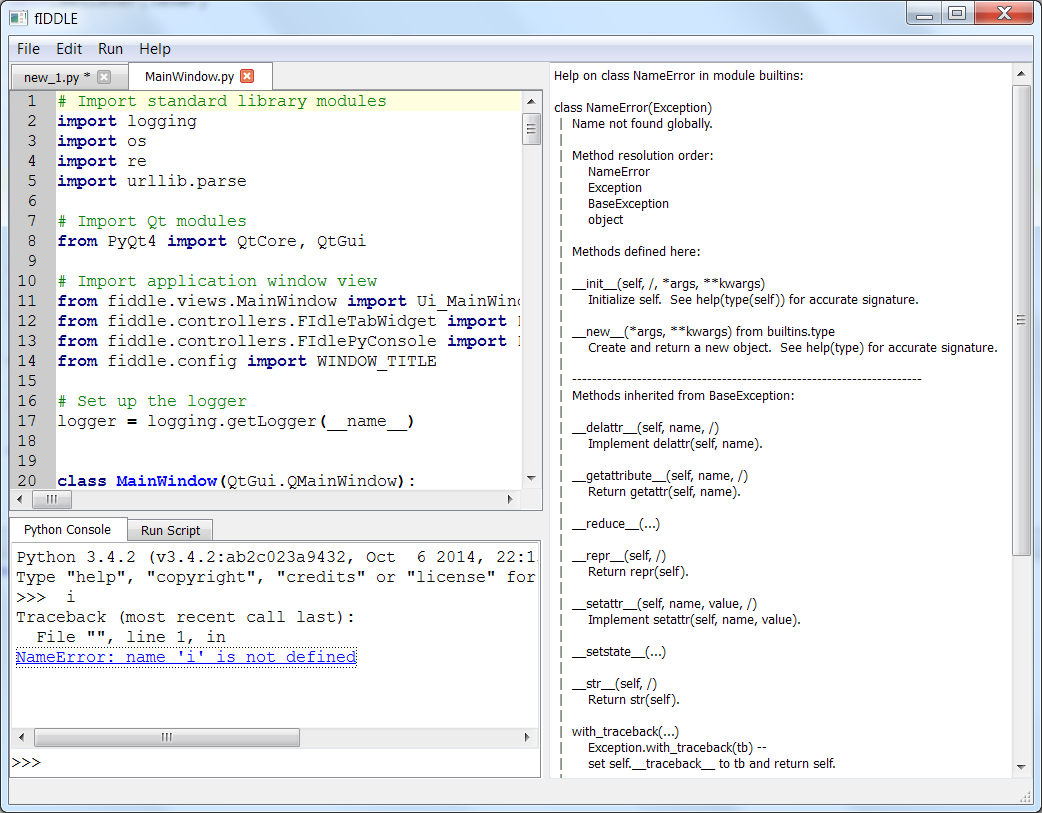
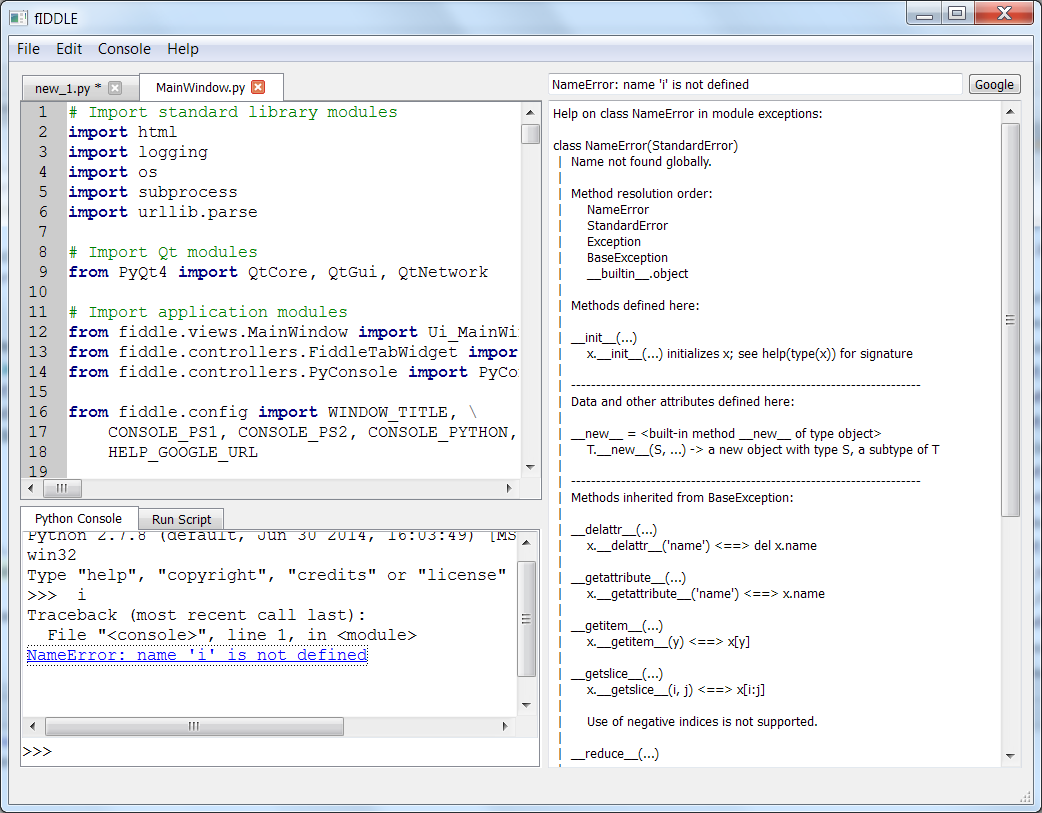
Added Google search

diff --git a/fiddle/views/MainWindow.py b/fiddle/views/MainWindow.py
@@ -2,7 +2,7 @@
 
 # Form implementation generated from reading ui file 'MainWindow.ui'
 #
-# Created: Tue Dec  2 10:57:54 2014
+# Created: Mon Dec  8 16:46:20 2014
 #      by: PyQt4 UI code generator 4.11.3
 #
 # WARNING! All changes made in this file will be lost!
@@ -29,13 +29,12 @@ class Ui_MainWindow(object):
         MainWindow.resize(1024, 768)
         self.centralwidget = QtGui.QWidget(MainWindow)
         self.centralwidget.setObjectName(_fromUtf8("centralwidget"))
-        self.verticalLayout_3 = QtGui.QVBoxLayout(self.centralwidget)
-        self.verticalLayout_3.setMargin(0)
-        self.verticalLayout_3.setObjectName(_fromUtf8("verticalLayout_3"))
-        self.editorHelp_splitter = QtGui.QSplitter(self.centralwidget)
-        self.editorHelp_splitter.setOrientation(QtCore.Qt.Horizontal)
-        self.editorHelp_splitter.setObjectName(_fromUtf8("editorHelp_splitter"))
-        self.editorConsole_splitter = QtGui.QSplitter(self.editorHelp_splitter)
+        self.verticalLayout_5 = QtGui.QVBoxLayout(self.centralwidget)
+        self.verticalLayout_5.setObjectName(_fromUtf8("verticalLayout_5"))
+        self.splitter = QtGui.QSplitter(self.centralwidget)
+        self.splitter.setOrientation(QtCore.Qt.Horizontal)
+        self.splitter.setObjectName(_fromUtf8("splitter"))
+        self.editorConsole_splitter = QtGui.QSplitter(self.splitter)
         self.editorConsole_splitter.setOrientation(QtCore.Qt.Vertical)
         self.editorConsole_splitter.setObjectName(_fromUtf8("editorConsole_splitter"))
         self.documents_tabWidget = QtGui.QTabWidget(self.editorConsole_splitter)
@@ -121,16 +120,36 @@ class Ui_MainWindow(object):
         self.runScript_output.setObjectName(_fromUtf8("runScript_output"))
         self.verticalLayout_4.addWidget(self.runScript_output)
         self.tabWidget.addTab(self.tab_2, _fromUtf8(""))
-        self.helpPane = QtGui.QTextEdit(self.editorHelp_splitter)
+        self.helpPane = QtGui.QWidget(self.splitter)
+        self.helpPane.setObjectName(_fromUtf8("helpPane"))
+        self.verticalLayout_3 = QtGui.QVBoxLayout(self.helpPane)
+        self.verticalLayout_3.setSpacing(0)
+        self.verticalLayout_3.setMargin(0)
+        self.verticalLayout_3.setObjectName(_fromUtf8("verticalLayout_3"))
+        self.helpLayout = QtGui.QVBoxLayout()
+        self.helpLayout.setSpacing(5)
+        self.helpLayout.setObjectName(_fromUtf8("helpLayout"))
+        self.horizontalLayout_2 = QtGui.QHBoxLayout()
+        self.horizontalLayout_2.setObjectName(_fromUtf8("horizontalLayout_2"))
+        self.helpSearch = QtGui.QLineEdit(self.helpPane)
+        self.helpSearch.setObjectName(_fromUtf8("helpSearch"))
+        self.horizontalLayout_2.addWidget(self.helpSearch)
+        self.googleButton = QtGui.QToolButton(self.helpPane)
+        self.googleButton.setObjectName(_fromUtf8("googleButton"))
+        self.horizontalLayout_2.addWidget(self.googleButton)
+        self.helpLayout.addLayout(self.horizontalLayout_2)
+        self.helpBrowser = QtGui.QTextEdit(self.helpPane)
         sizePolicy = QtGui.QSizePolicy(QtGui.QSizePolicy.MinimumExpanding, QtGui.QSizePolicy.Expanding)
         sizePolicy.setHorizontalStretch(0)
         sizePolicy.setVerticalStretch(0)
-        sizePolicy.setHeightForWidth(self.helpPane.sizePolicy().hasHeightForWidth())
-        self.helpPane.setSizePolicy(sizePolicy)
-        self.helpPane.setReadOnly(True)
-        self.helpPane.setTextInteractionFlags(QtCore.Qt.TextBrowserInteraction)
-        self.helpPane.setObjectName(_fromUtf8("helpPane"))
-        self.verticalLayout_3.addWidget(self.editorHelp_splitter)
+        sizePolicy.setHeightForWidth(self.helpBrowser.sizePolicy().hasHeightForWidth())
+        self.helpBrowser.setSizePolicy(sizePolicy)
+        self.helpBrowser.setReadOnly(True)
+        self.helpBrowser.setTextInteractionFlags(QtCore.Qt.TextBrowserInteraction)
+        self.helpBrowser.setObjectName(_fromUtf8("helpBrowser"))
+        self.helpLayout.addWidget(self.helpBrowser)
+        self.verticalLayout_3.addLayout(self.helpLayout)
+        self.verticalLayout_5.addWidget(self.splitter)
         MainWindow.setCentralWidget(self.centralwidget)
         self.menubar = QtGui.QMenuBar(MainWindow)
         self.menubar.setGeometry(QtCore.QRect(0, 0, 1024, 26))
@@ -187,6 +206,12 @@ class Ui_MainWindow(object):
         self.actionAbout_fIDEL.setObjectName(_fromUtf8("actionAbout_fIDEL"))
         self.actionRun_Current_Script = QtGui.QAction(MainWindow)
         self.actionRun_Current_Script.setObjectName(_fromUtf8("actionRun_Current_Script"))
+        self.actionConfigure = QtGui.QAction(MainWindow)
+        self.actionConfigure.setObjectName(_fromUtf8("actionConfigure"))
+        self.actionShow_Help_Pane = QtGui.QAction(MainWindow)
+        self.actionShow_Help_Pane.setObjectName(_fromUtf8("actionShow_Help_Pane"))
+        self.actionHide_Help_Pane = QtGui.QAction(MainWindow)
+        self.actionHide_Help_Pane.setObjectName(_fromUtf8("actionHide_Help_Pane"))
         self.menuFile.addAction(self.actionNew)
         self.menuFile.addAction(self.actionOpen)
         self.menuFile.addAction(self.actionOpen_Recent)
@@ -206,6 +231,11 @@ class Ui_MainWindow(object):
         self.menuEdit.addAction(self.actionFind_and_Replace)
         self.menuShell.addAction(self.actionRun_Current_Script)
         self.menuShell.addAction(self.actionRestart)
+        self.menuShell.addSeparator()
+        self.menuShell.addAction(self.actionConfigure)
+        self.menuHelp.addAction(self.actionShow_Help_Pane)
+        self.menuHelp.addAction(self.actionHide_Help_Pane)
+        self.menuHelp.addSeparator()
         self.menuHelp.addAction(self.actionFIDLE_Help)
         self.menuHelp.addAction(self.actionPython_Help)
         self.menuHelp.addSeparator()
@@ -220,6 +250,7 @@ class Ui_MainWindow(object):
         self.tabWidget.setCurrentIndex(0)
         QtCore.QObject.connect(self.documents_tabWidget, QtCore.SIGNAL(_fromUtf8("tabCloseRequested(int)")), MainWindow.close_tab)
         QtCore.QObject.connect(self.documents_tabWidget, QtCore.SIGNAL(_fromUtf8("currentChanged(int)")), MainWindow.handle_tab_change)
+        QtCore.QObject.connect(self.googleButton, QtCore.SIGNAL(_fromUtf8("clicked()")), MainWindow.run_web_search)
         QtCore.QMetaObject.connectSlotsByName(MainWindow)
 
     def retranslateUi(self, MainWindow):
@@ -229,9 +260,10 @@ class Ui_MainWindow(object):
         self.label.setText(_translate("MainWindow", "Run Command", None))
         self.runScript_button.setText(_translate("MainWindow", "Run", None))
         self.tabWidget.setTabText(self.tabWidget.indexOf(self.tab_2), _translate("MainWindow", "Run Script", None))
+        self.googleButton.setText(_translate("MainWindow", "Google", None))
         self.menuFile.setTitle(_translate("MainWindow", "File", None))
         self.menuEdit.setTitle(_translate("MainWindow", "Edit", None))
-        self.menuShell.setTitle(_translate("MainWindow", "Run", None))
+        self.menuShell.setTitle(_translate("MainWindow", "Console", None))
         self.menuHelp.setTitle(_translate("MainWindow", "Help", None))
         self.actionNew.setText(_translate("MainWindow", "New", None))
         self.actionNew.setShortcut(_translate("MainWindow", "Ctrl+N", None))
@@ -264,4 +296,7 @@ class Ui_MainWindow(object):
         self.actionAbout_fIDEL.setText(_translate("MainWindow", "About fIDLE", None))
         self.actionRun_Current_Script.setText(_translate("MainWindow", "Run Current Script", None))
         self.actionRun_Current_Script.setShortcut(_translate("MainWindow", "F5", None))
+        self.actionConfigure.setText(_translate("MainWindow", "Configure", None))
+        self.actionShow_Help_Pane.setText(_translate("MainWindow", "Show Help Pane", None))
+        self.actionHide_Help_Pane.setText(_translate("MainWindow", "Hide Help Pane", None))
 

diff --git a/fiddle/controllers/MainWindow.py b/fiddle/controllers/MainWindow.py
@@ -12,7 +12,10 @@ from PyQt4 import QtCore, QtGui, QtNetwork
 from fiddle.views.MainWindow import Ui_MainWindow
 from fiddle.controllers.FiddleTabWidget import FIdleTabWidget
 from fiddle.controllers.PyConsole import PyConsoleServer, PyConsoleClient, PyConsoleLineEdit
-from fiddle.config import WINDOW_TITLE, CONSOLE_PS1, CONSOLE_PS2, CONSOLE_PYTHON
+
+from fiddle.config import WINDOW_TITLE, \
+    CONSOLE_PS1, CONSOLE_PS2, CONSOLE_PYTHON, \
+    HELP_GOOGLE_URL
 
 # Set up the logger
 logger = logging.getLogger(__name__)
@@ -75,6 +78,10 @@ class MainWindow(QtGui.QMainWindow):
 
         # Edit actions
         # TODO
+
+        # Help actions
+        self.ui.actionShow_Help_Pane.triggered.connect(lambda x: self.ui.helpPane.show())
+        self.ui.actionHide_Help_Pane.triggered.connect(lambda x: self.ui.helpPane.hide())
 
     def init_open_recent(self):
         pass
@@ -204,6 +211,7 @@ class MainWindow(QtGui.QMainWindow):
 
     def load_anchor(self, url):
         scheme = url.scheme()
+        ret = False
         if scheme == 'help':
             query = dict(url.queryItems())  # queryItems returns list of tuples
             cmd = 'help({})'.format(query['object'])
@@ -211,8 +219,28 @@ class MainWindow(QtGui.QMainWindow):
             proc = subprocess.Popen(args, stdout=subprocess.PIPE, shell=False)
             out, err = proc.communicate()
             if err is None:
-                self.ui.helpPane.setPlainText(out.decode('utf8'))
+                self.ui.helpSearch.setText(urllib.parse.unquote_plus(query['text']))
+                self.ui.helpBrowser.setPlainText(out.decode('utf8'))
                 self.ui.helpPane.show()
+                ret = True
+        elif scheme == 'http' or scheme == 'https':
+            ret = QtGui.QDesktopServices.openUrl(url)
+
+        if not ret:
+            message_box = QtGui.QMessageBox()
+            message_box.setText("Cannot open link.")
+            message_box.setInformativeText('The link at {0} cannot be opened.'.format(url.path()))
+            ok_btn = message_box.addButton(QtGui.QMessageBox.Ok)
+            message_box.setDefaultButton(ok_btn)
+
+            message_box.exec_()
+
+    def run_web_search(self):
+        query = self.ui.helpSearch.text()
+        url = HELP_GOOGLE_URL.format(query=urllib.parse.quote_plus(query))
+        qurl = QtCore.QUrl(url)
+        ret = QtGui.QDesktopServices.openUrl(qurl)
+
 
     def _get_current_tab(self):
         idx = self.ui.documents_tabWidget.currentIndex()

diff --git a/fiddle/__main__.py b/fiddle/__main__.py
@@ -17,6 +17,27 @@ logging.basicConfig(filename='fIDDLE.log',
                     level=LOG_LEVEL)
 
 
+class DumpStream():
+    """
+    A simple stream to dump all console I/O
+    from: http://sebsauvage.net/python/snyppets/#py2exe
+    """
+    def __init__(self):
+        pass
+
+    def write(self, data):
+        pass
+
+    def read(self, data):
+        pass
+
+    def flush(self):
+        pass
+
+    def close(self):
+        pass
+
+
 class App(QtGui.QApplication):
     def __init__(self, *args):
         QtGui.QApplication.__init__(self, *args)
@@ -32,8 +53,21 @@ class App(QtGui.QApplication):
         self.exit(0)
 
 
+def set_dump_streams():
+    sys.stdout = DumpStream()
+    sys.stderr = DumpStream()
+    sys.stdin = DumpStream()
+    sys.__stdout__ = DumpStream()
+    sys.__stderr__ = DumpStream()
+    sys.__stdin__ = DumpStream()
+
+
 def main():
     global app
+
+    if LOG_LEVEL != logging.DEBUG:
+        set_dump_streams()
+
     app = App(sys.argv)
     app.exec_()
 

diff --git a/fiddle/config.py b/fiddle/config.py
@@ -25,10 +25,12 @@ def find_python_exe():
 
 # app directory, determine if application is a script file or frozen exe
 # see: http://stackoverflow.com/questions/404744/determining-application-path-in-a-python-exe-generated-by-pyinstaller
+# also up the logging level to INFO for frozen app
+APP_DIR = os.path.dirname(__file__)
 if getattr(sys, 'frozen', False):
     APP_DIR = os.path.dirname(sys.executable)
-elif __file__:
-    APP_DIR = os.path.dirname(__file__)
+    LOG_LEVEL = logging.INFO
+
 
 # Window title prefix
 WINDOW_TITLE = 'fIDDLE'
@@ -47,5 +49,8 @@ CONSOLE_PYTHON = find_python_exe()
 CONSOLE_SCRIPT = os.path.join(APP_DIR, 'scripts', 'console_server.py')
 CONSOLE_PS1 = getattr(sys, "ps1", ">>> ")
 CONSOLE_PS2 = getattr(sys, "ps2", "... ")
+
+# Help Configuration
+HELP_GOOGLE_URL = 'https://www.google.com/search?q={query}'
 
 

diff --git a/setup.py b/setup.py
@@ -5,10 +5,9 @@ import sys
 from cx_Freeze import setup, Executable
 
 # Dependencies are automatically detected, but it might need fine tuning.
-build_exe_options = {"packages": [], "excludes": ["tkinter"]}
+build_exe_options = {"packages": [], "excludes": ["tkinter"], 'include_files': ['fiddle/scripts']}
 
-# GUI applications require a different base on Windows (the default is for a
-# console application).
+# GUI applications require a different base on Windows (the default is for a console application).
 base = None
 if sys.platform == "win32":
     base = "Win32GUI"
